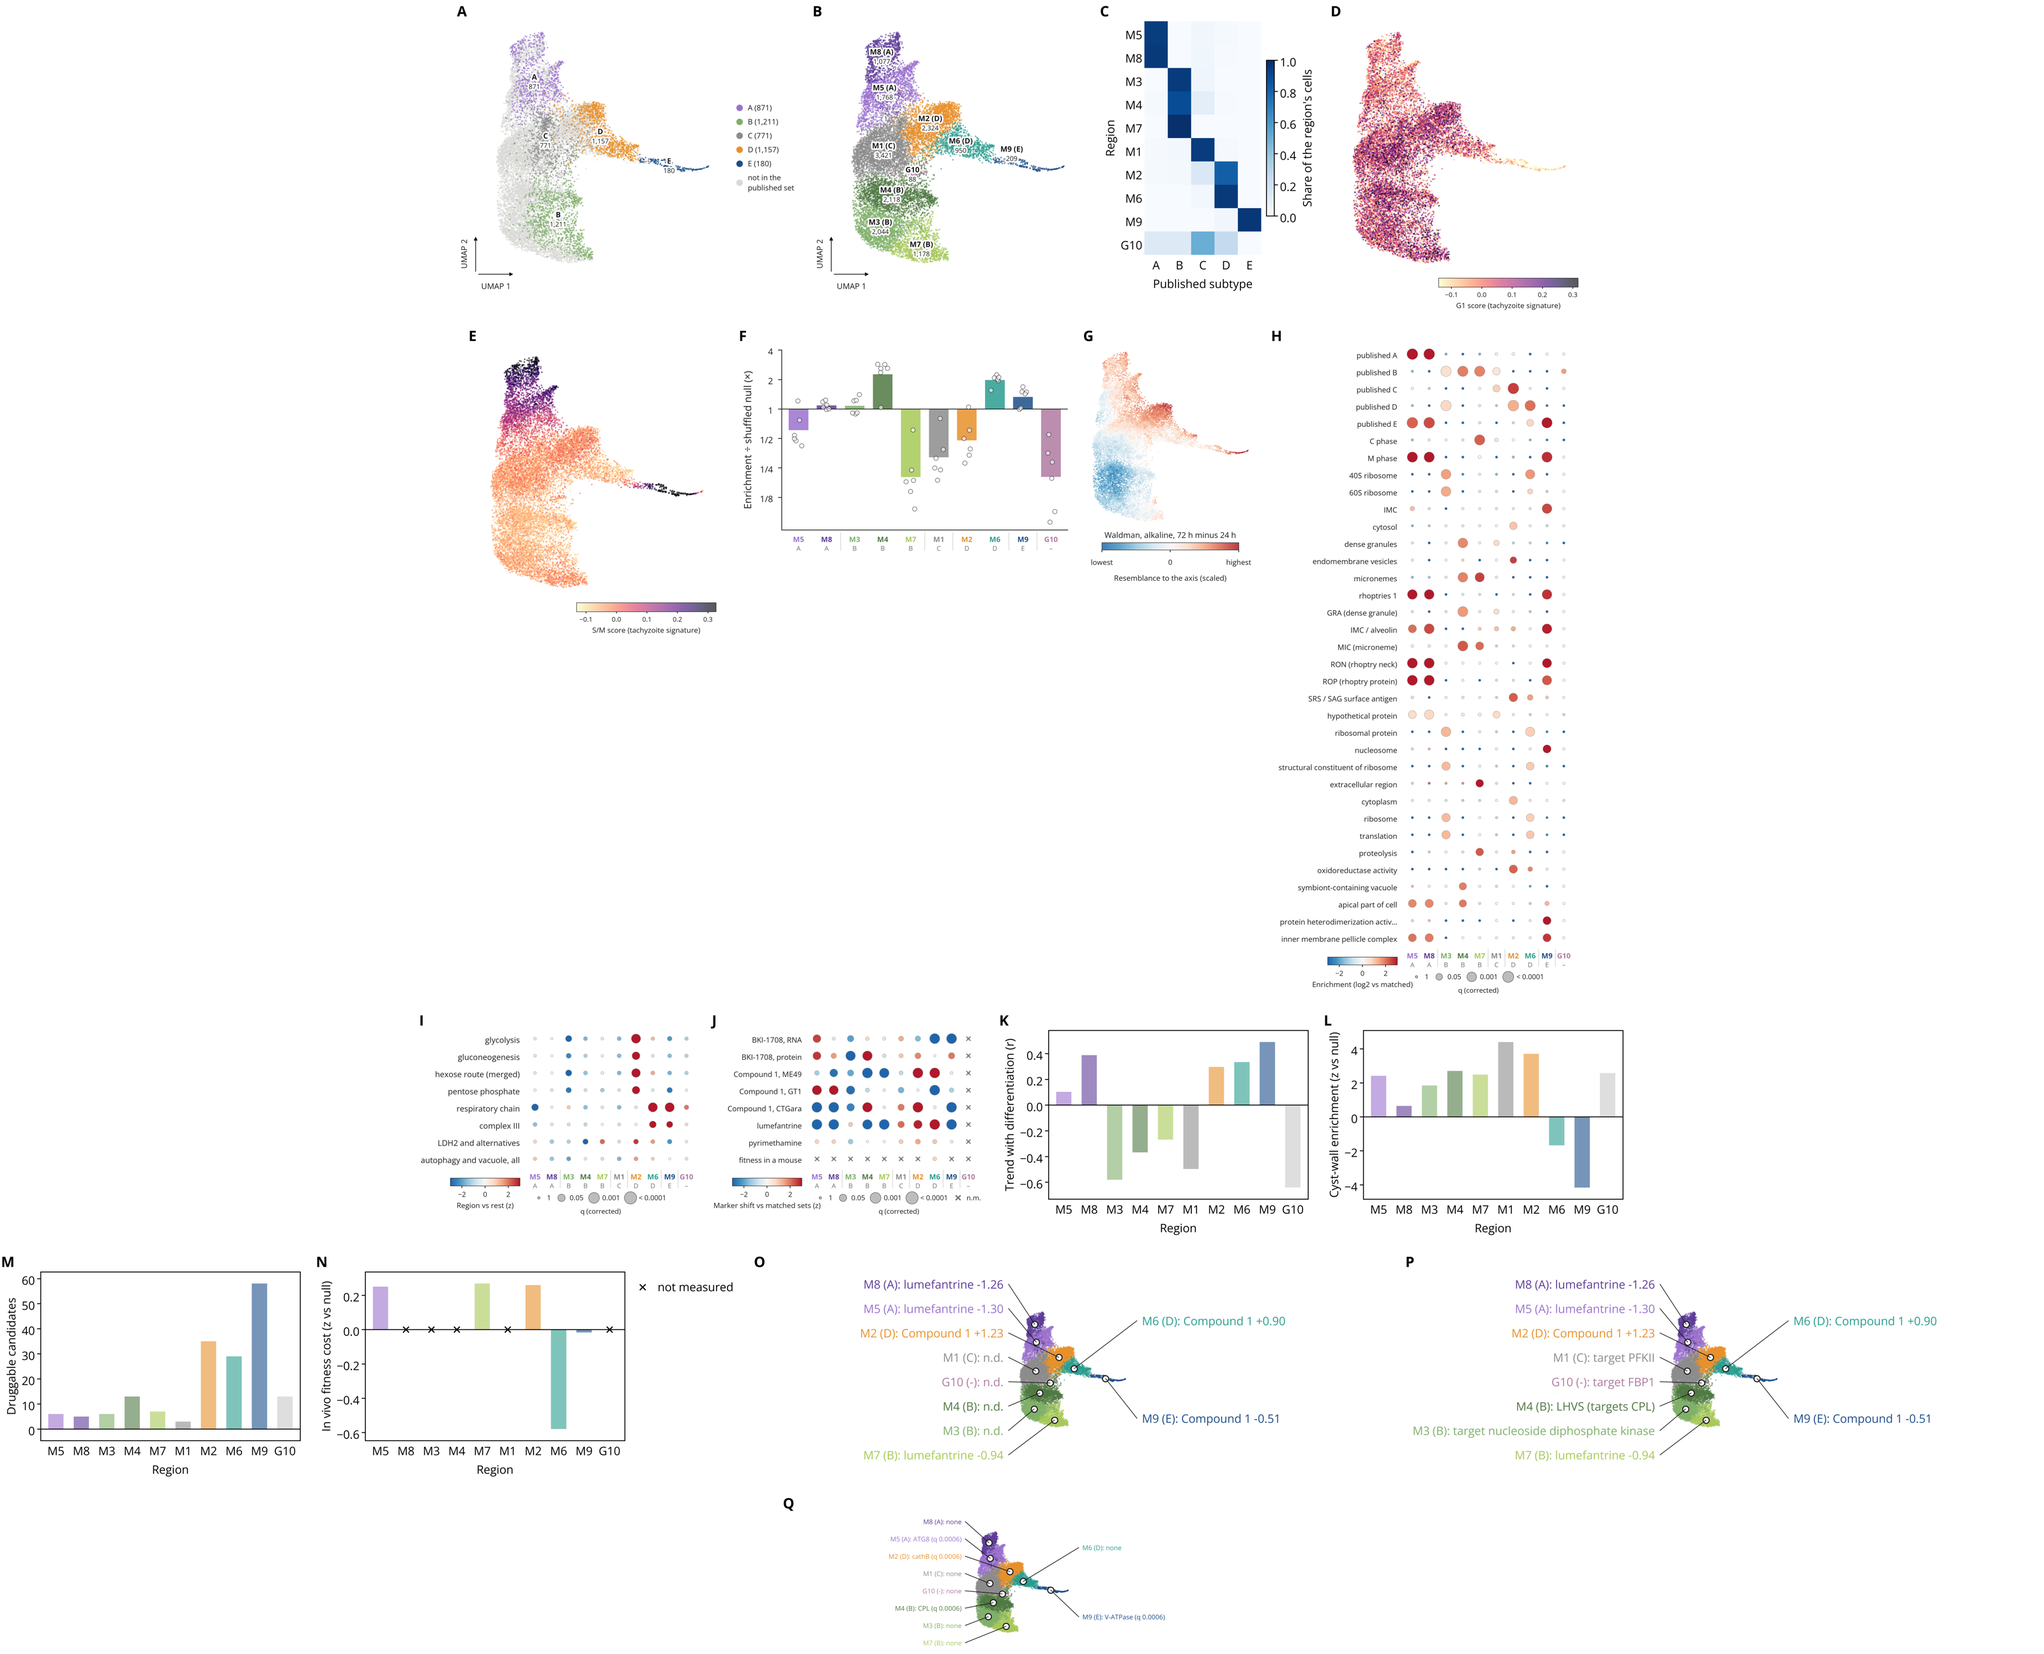
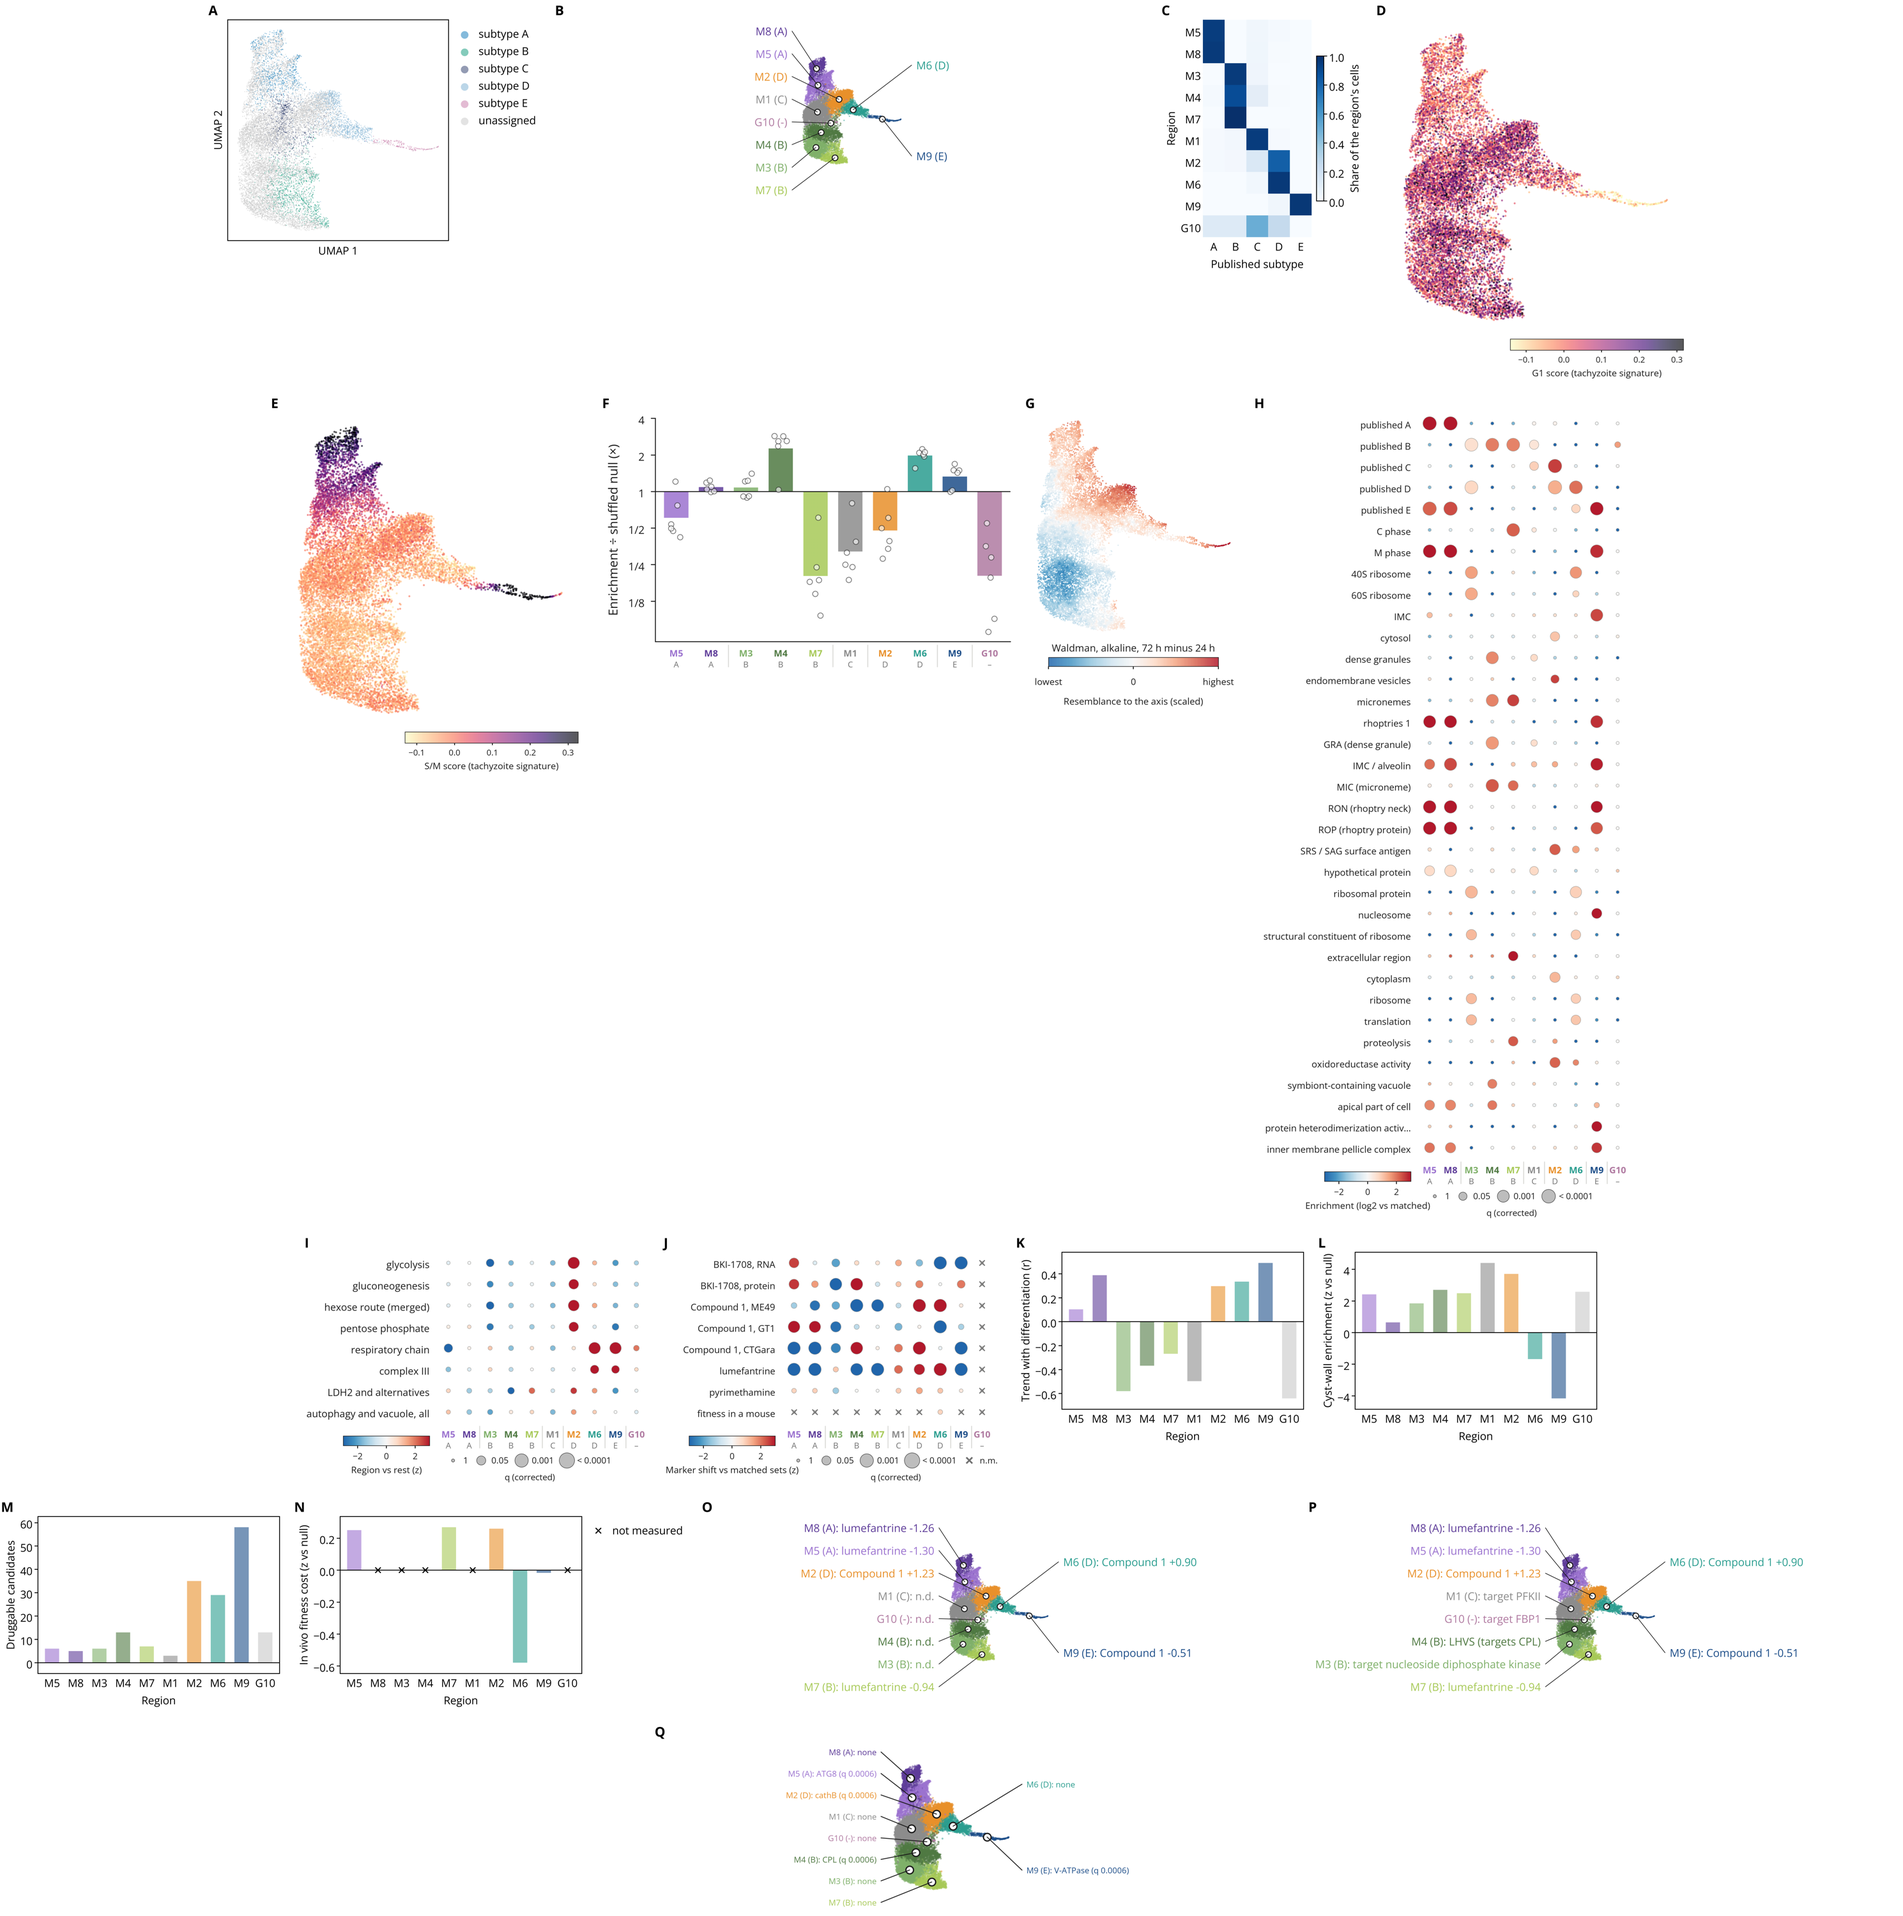
Figure 5: maps without cell counts, bradyzoite panels brought to 8 pt
Old clustering redrawn in house style (subtypes A-E, no counts); new
clustering on the leader-line map with names only; panels reused from the
bradyzoite paper (drawn at 6 pt) enlarged by 8/6 through a per-panel scale
in compose().

diff --git a/scripts/build_figure05_v2.py b/scripts/build_figure05_v2.py
@@ -189,7 +189,27 @@ def main():
         PF.annotated_map(fig, g[0], g[1], g[2], d, labels, fontsize=FS.FONT_PT)
         return fig
 
+    def old_map():
+        """The published subtypes A-E on the UMAP, house style, no cell counts on the map."""
+        FS.use()
+        fig, ax = FS.square_figure(side_mm=58.0)
+        o = obs.iloc[np.random.default_rng(0).permutation(len(obs))]
+        sub = o["published_subtype"].astype(str)
+        for i, k in enumerate(SUBTYPES):
+            m = sub == k
+            ax.scatter(o.loc[m, "ux"], o.loc[m, "uy"], s=0.5, lw=0, rasterized=True,
+                       color=FS.SERIES[i], alpha=0.5, label=f"subtype {k}")
+        m = ~sub.isin(SUBTYPES)
+        ax.scatter(o.loc[m, "ux"], o.loc[m, "uy"], s=0.5, lw=0, rasterized=True,
+                   color=FS.BACKGROUND, alpha=0.5, label="unassigned")
+        ax.set_xticks([]); ax.set_yticks([])
+        ax.set_xlabel("UMAP 1"); ax.set_ylabel("UMAP 2")
+        FS.legend(ax, loc="upper left", bbox_to_anchor=(1.02, 1.0), markerscale=8)
+        return fig
+
     built = {
+        "1_old_map": save(old_map(), "1_old_map"),
+        "2_new_map": save(leader_map(lambda r: PF.with_group(r)), "2_new_map"),
         "2b_new_to_old": save(new_to_old(obs), "2b_new_to_old"),
         "8a_drug_reached": save(leader_map(text_reached), "8a_drug_reached"),
         "8b_drug_candidates": save(leader_map(text_candidate), "8b_drug_candidates"),
@@ -199,8 +219,8 @@ def main():
 
     # the figure, in Einar's order
     seq = [
-        ("old clustering", brady("Figure1_regions/panels/c_published_group_map/c_published_group_map.png")),
-        ("new clustering", brady("Figure1_regions/panels/a_region_map/a_region_map.png")),
+        ("old clustering", built["1_old_map"]),
+        ("new clustering", built["2_new_map"]),
         ("new to old", built["2b_new_to_old"]),
         ("cell cycle G1a", brady("Figure1_regions/panels/f_cc_G1a_map/f_cc_G1a_map.png")),
         ("cell cycle S/M", brady("Figure1_regions/panels/g_cc_SM_map/g_cc_SM_map.png")),
@@ -221,8 +241,11 @@ def main():
     if missing:
         print("  MISSING:", missing)
     letters = "abcdefghijklmnopqrstuvwxyz"
-    panels = [{"png": p, "letter": letters[i]} for i, (n, p) in enumerate(seq)
-              if os.path.exists(p)]
+    # Panels reused from the bradyzoite paper are drawn at its 6 pt; enlarged to this paper's 8.
+    present = [(n, p) for n, p in seq if os.path.exists(p)]
+    panels = [{"png": p, "letter": letters[i],
+               "scale": FS.FONT_PT / 6.0 if p.startswith(V2) else 1.0}
+              for i, (n, p) in enumerate(present)]
     sys.path.insert(0, os.path.join(ROOT, "scripts"))
     import assemble_paper_figures as A
     A.PER_ROW = 4

diff --git a/scripts/assemble_paper_figures.py b/scripts/assemble_paper_figures.py
@@ -63,8 +63,12 @@ def compose(figure_id: str, panels: list, out: str, rows: list | None = None) ->
     centred in it. Rows are as wide as the widest row, and a short row is centred.
     """
     images = [mpimg.imread(p["png"]) for p in panels]
-    widths = [img.shape[1] / DPMM for img in images]
-    heights = [img.shape[0] / DPMM for img in images]
+    # `scale` is for a panel drawn to ANOTHER paper's type size: the bradyzoite paper sets 6 pt,
+    # so its panels are enlarged by 8/6 to bring their text to this paper's size. Scaling a panel
+    # drawn here would change its font, which is what the rule against rescaling exists to stop.
+    scales = [float(p.get("scale", 1.0)) for p in panels]
+    widths = [img.shape[1] / DPMM * k for img, k in zip(images, scales)]
+    heights = [img.shape[0] / DPMM * k for img, k in zip(images, scales)]
 
     if rows:
         # Explicit row sizes, e.g. [1, 2, 3]: a full-width schematic on a row of its own.
